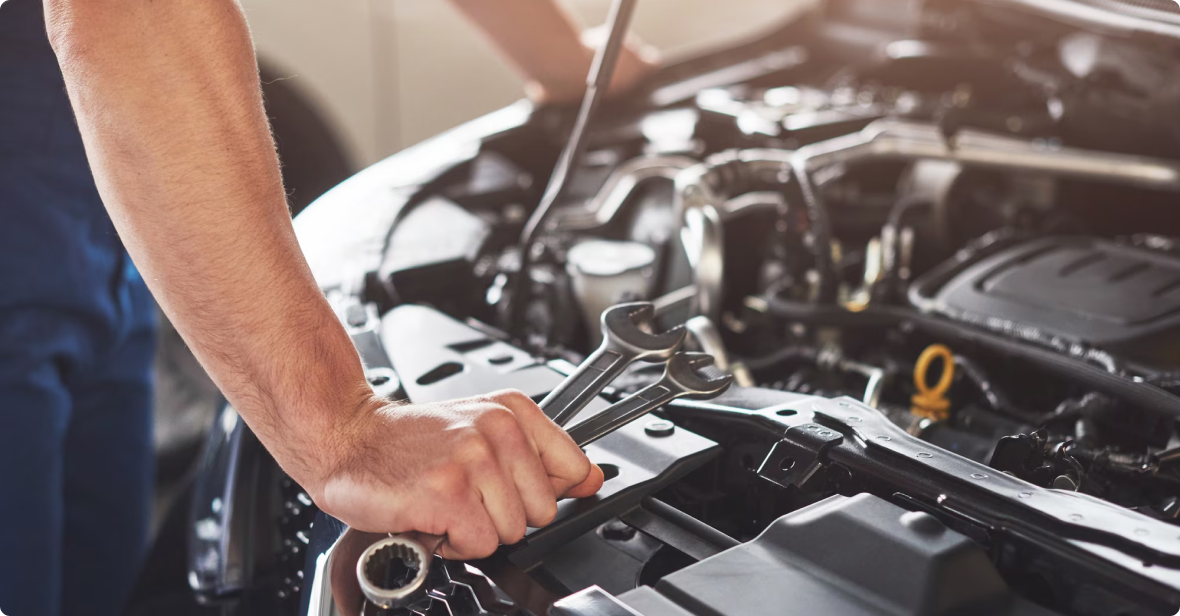
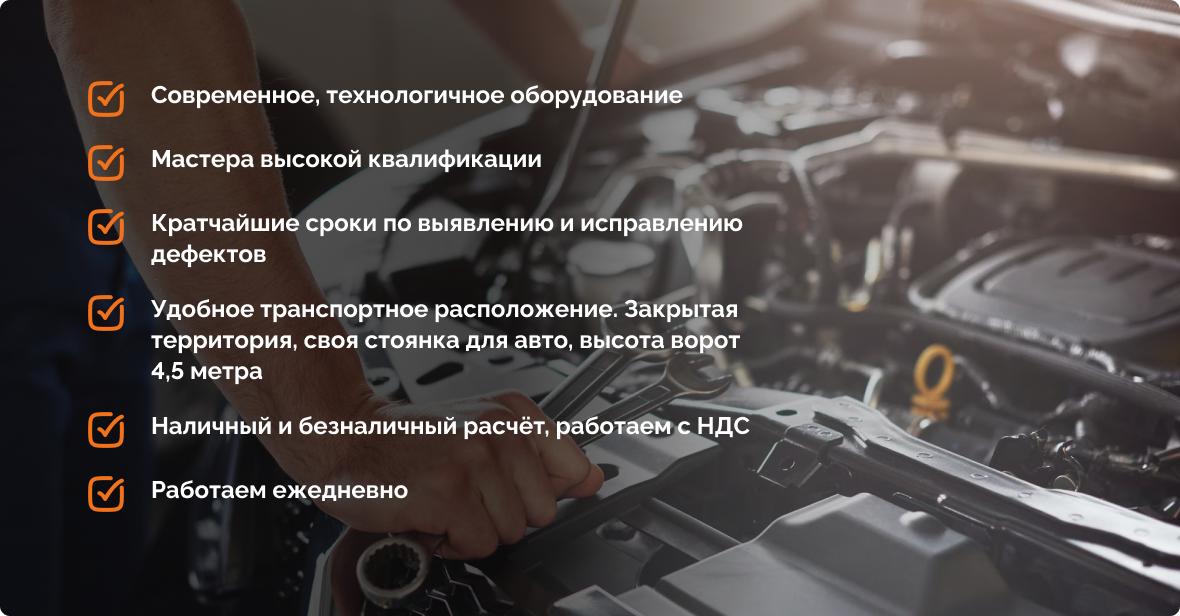
feat(static/images): changed form image

diff --git a/static/styles/form.css b/static/styles/form.css
@@ -70,6 +70,7 @@
     width: 100%;
     max-width: 1180px;
     height: auto;
+    border-radius: 10px;
 }
 
 .form__img {
@@ -79,7 +80,9 @@
     height: 100%; 
     position: absolute;
     top: 0;
-    right: 0;
+    object-fit: contain; 
+    object-position: left;
+    border-radius: 10px;
 }
 
 @media screen and (max-width: 701px) {
